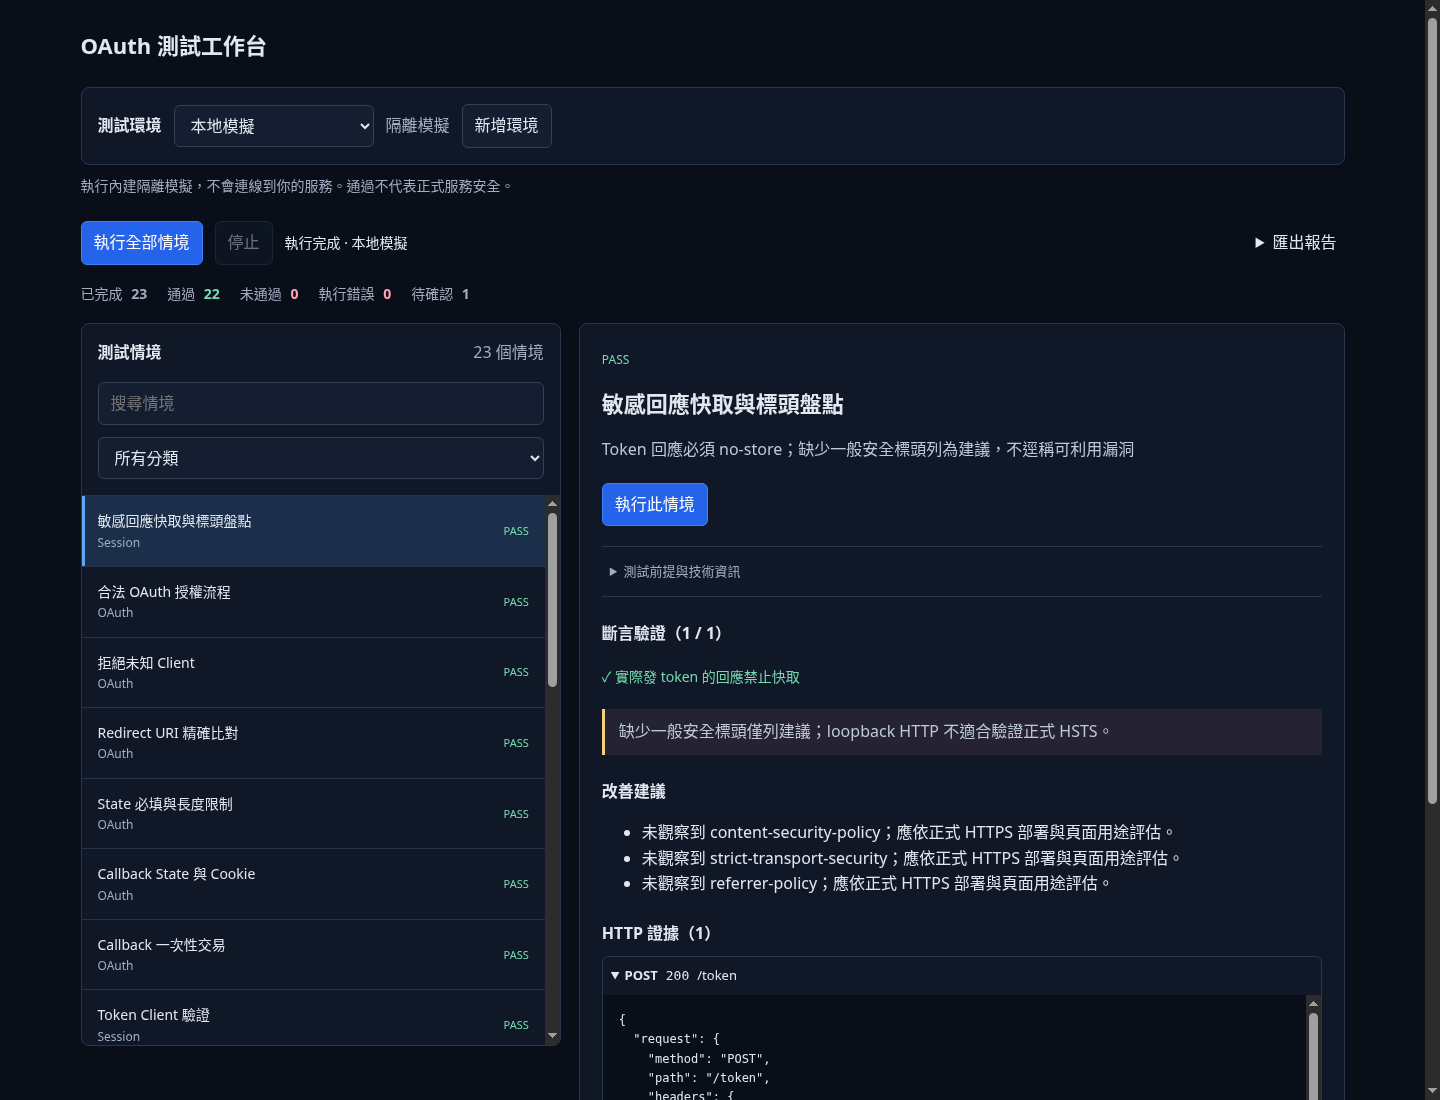
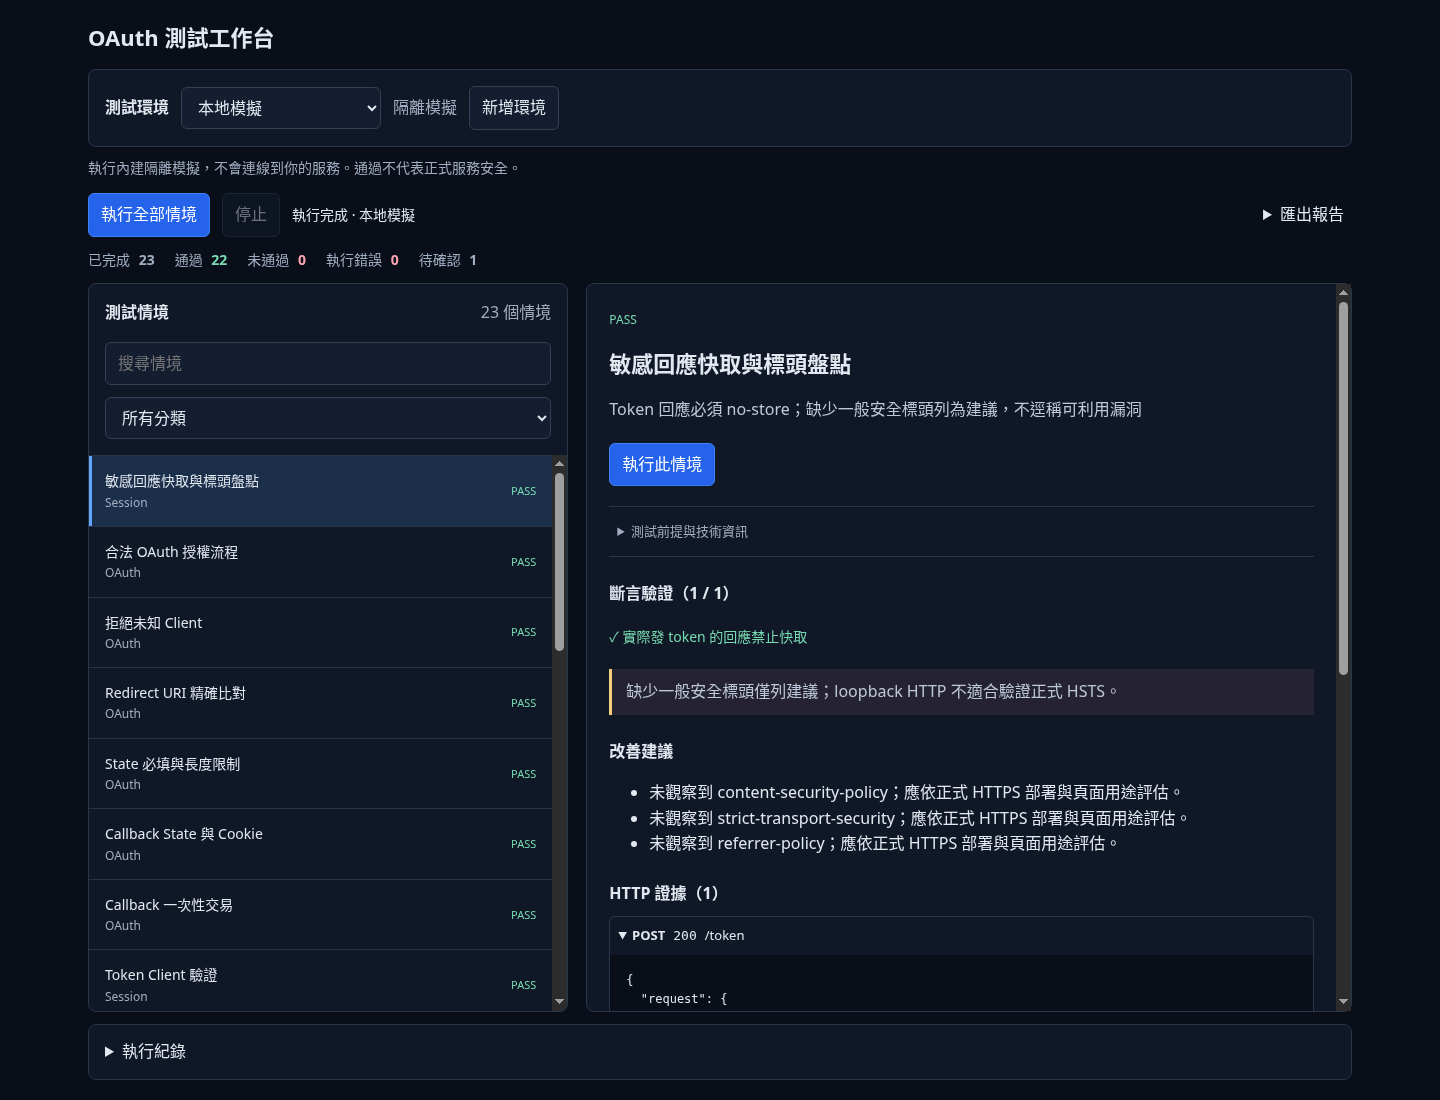
Keep result and response scrolling inside a viewport-sized workspace

Changed region(s): [[0.0312, 0.0, 0.8125, 1.0], [0.9688, 0.0, 1.0, 1.0], [0.875, 0.1855, 0.9375, 1.0]]

diff --git a/public/style.css b/public/style.css
@@ -166,7 +166,7 @@ summary {
   display: grid;
   grid-template-columns: minmax(280px, 38%) minmax(0, 1fr);
   gap: 18px;
-  align-items: start;
+  align-items: stretch;
 }
 .panel {
   background: #101827;
@@ -287,11 +287,13 @@ summary {
   margin-right: 8px;
 }
 pre {
-  overflow: auto;
+  white-space: pre-wrap;
+  overflow-wrap: anywhere;
+  overflow: visible;
   background: #090e19;
   padding: 16px;
   font-size: 12px;
-  max-height: 360px;
+  max-height: none;
   margin: 0;
 }
 .terminal {
@@ -345,6 +347,91 @@ dialog::backdrop {
 #environment-delete {
   margin-right: auto;
   color: #fda4af;
+}
+/* Each desktop column owns one scroll area; evidence flows with the detail. */
+@media (min-width: 761px) {
+  body {
+    overflow: hidden;
+  }
+  main {
+    height: 100dvh;
+    display: flex;
+    flex-direction: column;
+    padding: 20px 28px;
+  }
+  main > :not(.workspace) {
+    flex-shrink: 0;
+  }
+  header {
+    margin-bottom: 14px;
+  }
+  .notice {
+    margin-bottom: 14px;
+  }
+  .metrics {
+    margin: 12px 0;
+  }
+  .workspace {
+    flex: 1;
+    min-height: 0;
+  }
+  .catalog-panel {
+    display: flex;
+    flex-direction: column;
+    min-height: 0;
+  }
+  .panel-heading,
+  .catalog-toolbar {
+    flex-shrink: 0;
+  }
+  #catalog {
+    flex: 1;
+    min-height: 0;
+    max-height: none;
+  }
+  .detail {
+    min-height: 0;
+    overflow-y: auto;
+    overscroll-behavior-y: contain;
+    scrollbar-gutter: stable;
+  }
+  .terminal {
+    max-height: 22dvh;
+    overflow: auto;
+    overscroll-behavior: contain;
+    margin-top: 12px;
+  }
+  .terminal > summary {
+    position: sticky;
+    top: 0;
+    background: #101827;
+  }
+}
+@media (min-width: 761px) and (max-height: 740px) {
+  main {
+    padding: 12px 20px;
+  }
+  header {
+    margin-bottom: 8px;
+  }
+  .target-bar {
+    padding: 10px;
+  }
+  .notice,
+  .metrics {
+    margin: 8px 0;
+  }
+  .catalog-toolbar {
+    flex-wrap: nowrap;
+    padding-bottom: 10px;
+  }
+  .catalog-toolbar input {
+    flex: 1;
+  }
+  .catalog-toolbar select {
+    width: auto;
+    max-width: 45%;
+  }
 }
 @media (max-width: 760px) {
   main {

diff --git a/public/app.js b/public/app.js
@@ -57,6 +57,7 @@ async function selectEnvironment(id) {
     if (!resultGroups.has(key)) resultGroups.set(key, new Map());
     results = resultGroups.get(key);
     selected = catalog[0]?.id;
+    displayedScenario = undefined;
     $("scenario-search").value = "";
     $("filter").replaceChildren(
       element("option", "所有分類"),
@@ -178,6 +179,7 @@ async function saveEnvironment(remove = false) {
   }
 }
 let selected;
+let displayedScenario;
 let controller;
 let running = false;
 function element(tag, text, className) {
@@ -326,6 +328,10 @@ function detail() {
       wrap.append(element("p", "此情境沒有 HTTP 請求，請參閱斷言與測試限制。"));
   }
   $("detail").replaceChildren(wrap);
+  if (displayedScenario !== selected) {
+    $("detail").parentElement.scrollTop = 0;
+    displayedScenario = selected;
+  }
 }
 function log(text) {
   $("console").textContent += `\n[${new Date().toLocaleTimeString()}] ${text}`;

diff --git a/public/index.html b/public/index.html
@@ -69,9 +69,19 @@
               <option value="all">所有分類</option>
             </select>
           </div>
-          <div id="catalog"></div>
+          <div
+            id="catalog"
+            role="region"
+            aria-label="測試情境清單"
+            tabindex="0"
+          ></div>
         </div>
-        <div class="panel detail">
+        <div
+          class="panel detail"
+          role="region"
+          aria-label="情境結果與 HTTP 證據"
+          tabindex="0"
+        >
           <div id="detail"><p>載入測試情境中…</p></div>
         </div>
       </section>

diff --git a/docs/STATUS.md b/docs/STATUS.md
@@ -9,7 +9,8 @@
 - 移除同頁側欄、宣傳口號、重複統計與固定底列；以選環境、執行情境、查看結果為主。
 - 情境清單不再展示可能被誤認為漏洞判定的 HIGH／MEDIUM；執行結果的 FAIL 與 ERROR 分開統計。
 - 技術前提與執行紀錄預設收合；保留必要測試範圍說明、斷言與逐筆 HTTP 證據。
-- 情境清單依視窗高度限制顯示範圍並獨立捲動，到達邊界不帶動整頁；桌面／手機以實際 Chromium 滾輪事件驗證。
+- 桌面採固定視窗高度的雙欄工作區：左側清單與右側結果各自捲動，搜尋與執行控制保留在原位；HTTP response 取消內層捲軸，長文字自動換行。手機維持自然頁面排版。
+- 以實際 Chromium 滾輪驗證左右捲動隔離與邊界，長 response 在 1440×1100、1280×720 均不帶動整頁；展開執行紀錄不撐長頁面，切換情境重設結果捲動位置。
 - 自動選取第一個情境，分類依目前環境提供，篩選後的詳情與選取同步；環境 CRUD、設定版本隔離及匯出維持原行為。
 - 本機啟動方式與最新 Web 截圖見 README。此輪未重建或發布既有 EXE。
 - 驗證：24 個 JS 模組語法檢查、61 個 Node 測試、完整桌面／手機 Chromium 流程及 6 項資源載入檢查通過；file: 渲染因管理政策跳過 1 項。模擬情境仍為 22 PASS／1 INCONCLUSIVE。

diff --git a/README.md b/README.md
@@ -31,6 +31,8 @@ npm run test:browser
 
 選擇環境後，可搜尋／篩選情境，執行單項或全部測試，直接查看斷言及 HTTP 證據。執行紀錄、測試前提與報告匯出收在展開操作中；「未通過」與「執行錯誤」分開統計。結果只保留在目前頁面，重新整理會清空。
 
+桌面版工作區固定在視窗內，左側情境與右側結果各自捲動；HTTP 回應隨右欄展開並自動換行，不再有額外的內層捲軸。切換情境會回到結果頂部。
+
 ![本機 Web 介面](docs/screenshots/web-ui.png)
 
 ## 選用：Windows 可攜式預覽
